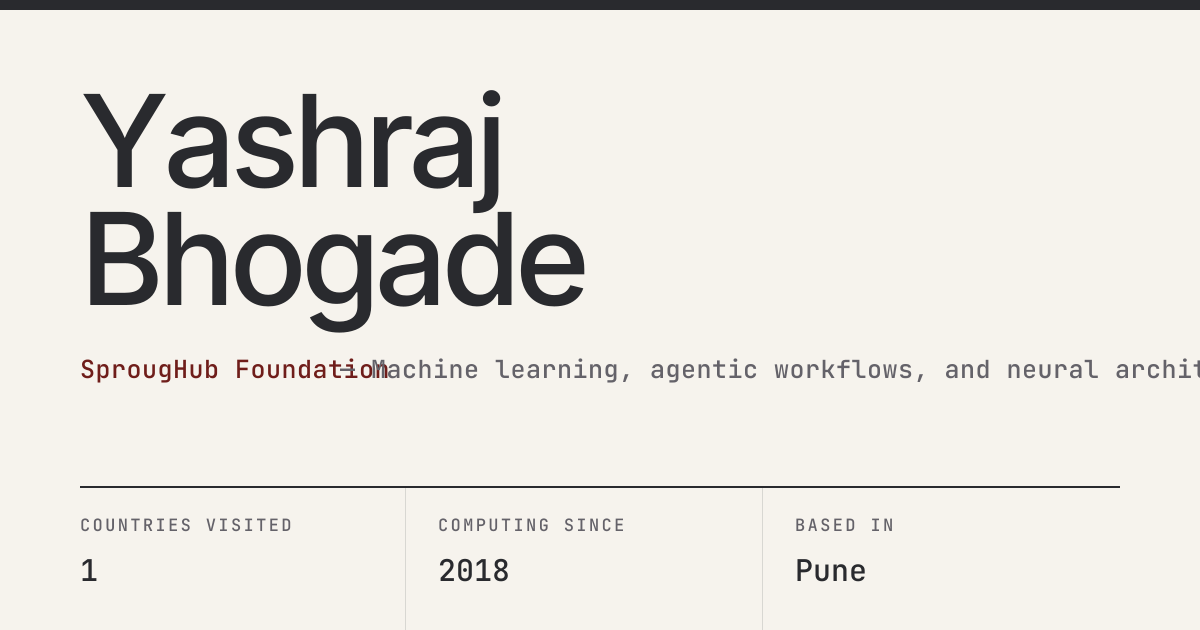
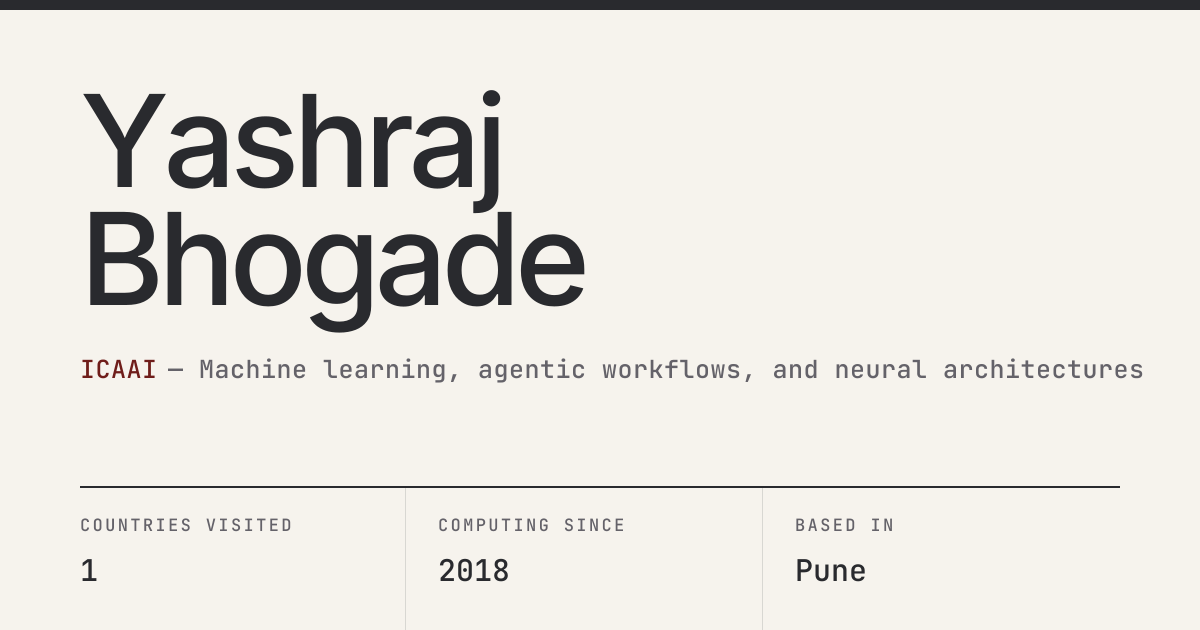
feat: build production-ready authenticated admin dashboard and asset tools

Changed region(s): [[0.0617, 0.573, 1.0, 0.6032]]

diff --git a/src/lib/__tests__/adminApi.test.ts b/src/lib/__tests__/adminApi.test.ts
@@ -1,0 +1,194 @@
+import { afterEach, beforeEach, describe, expect, it, vi } from 'vitest';
+
+import {
+  checkServerHealth,
+  commitGitChanges,
+  fetchAllPortfolioData,
+  fetchGitStatus,
+  getStoredToken,
+  login,
+  logout,
+  removeStoredToken,
+  saveAbout,
+  saveProfile,
+  setStoredToken,
+  triggerRebuild,
+  verifyAuth,
+} from '../adminApi';
+
+describe('adminApi token management', () => {
+  beforeEach(() => {
+    localStorage.clear();
+  });
+
+  afterEach(() => {
+    localStorage.clear();
+  });
+
+  it('stores and retrieves session token', () => {
+    expect(getStoredToken()).toBeNull();
+    setStoredToken('test-secret-token');
+    expect(getStoredToken()).toBe('test-secret-token');
+    removeStoredToken();
+    expect(getStoredToken()).toBeNull();
+  });
+});
+
+describe('adminApi network operations', () => {
+  beforeEach(() => {
+    localStorage.clear();
+    vi.restoreAllMocks();
+  });
+
+  afterEach(() => {
+    vi.restoreAllMocks();
+  });
+
+  it('checks server health when online', async () => {
+    vi.spyOn(global, 'fetch').mockResolvedValueOnce({
+      ok: true,
+      json: async () => ({ ok: true, status: 'ok' }),
+    } as Response);
+
+    const isOnline = await checkServerHealth();
+    expect(isOnline).toBe(true);
+  });
+
+  it('handles server health check failure gracefully', async () => {
+    vi.spyOn(global, 'fetch').mockRejectedValueOnce(new Error('Network error'));
+
+    const isOnline = await checkServerHealth();
+    expect(isOnline).toBe(false);
+  });
+
+  it('performs login successfully and stores token', async () => {
+    vi.spyOn(global, 'fetch').mockResolvedValueOnce({
+      ok: true,
+      json: async () => ({ ok: true, token: 'session-jwt-123' }),
+    } as Response);
+
+    const res = await login('admin123');
+    expect(res.ok).toBe(true);
+    expect(res.token).toBe('session-jwt-123');
+    expect(getStoredToken()).toBe('session-jwt-123');
+  });
+
+  it('returns error when login fails', async () => {
+    vi.spyOn(global, 'fetch').mockResolvedValueOnce({
+      ok: false,
+      status: 401,
+      json: async () => ({ ok: false, error: 'Invalid password' }),
+    } as Response);
+
+    const res = await login('wrong');
+    expect(res.ok).toBe(false);
+    expect(res.error).toBe('Invalid password');
+    expect(getStoredToken()).toBeNull();
+  });
+
+  it('verifies valid token', async () => {
+    setStoredToken('valid-token');
+    vi.spyOn(global, 'fetch').mockResolvedValueOnce({
+      ok: true,
+      json: async () => ({ ok: true, authenticated: true }),
+    } as Response);
+
+    const isValid = await verifyAuth();
+    expect(isValid).toBe(true);
+  });
+
+  it('clears token on logout', async () => {
+    setStoredToken('active-token');
+    vi.spyOn(global, 'fetch').mockResolvedValueOnce({
+      ok: true,
+      json: async () => ({ ok: true }),
+    } as Response);
+
+    await logout();
+    expect(getStoredToken()).toBeNull();
+  });
+
+  it('fetches all portfolio data when authenticated', async () => {
+    setStoredToken('valid-token');
+    const mockData = {
+      profile: { name: 'Yashraj Bhogade' },
+      about: { bio: 'Intro' },
+      resume: { work: [], degrees: [], skills: [], courses: [] },
+      projects: [],
+      writing: { articles: [], external: [] },
+      speaking: [],
+      contact: [],
+    };
+
+    vi.spyOn(global, 'fetch').mockResolvedValueOnce({
+      ok: true,
+      json: async () => ({ ok: true, data: mockData }),
+    } as Response);
+
+    const res = await fetchAllPortfolioData();
+    expect(res.ok).toBe(true);
+    expect(res.data?.profile?.name).toBe('Yashraj Bhogade');
+  });
+
+  it('saves profile and about section data', async () => {
+    setStoredToken('valid-token');
+    vi.spyOn(global, 'fetch').mockResolvedValueOnce({
+      ok: true,
+      json: async () => ({ ok: true }),
+    } as Response);
+
+    const profileRes = await saveProfile({
+      name: 'Yashraj Bhogade',
+    } as unknown as Parameters<typeof saveProfile>[0]);
+    expect(profileRes.ok).toBe(true);
+
+    vi.spyOn(global, 'fetch').mockResolvedValueOnce({
+      ok: true,
+      json: async () => ({ ok: true }),
+    } as Response);
+
+    const aboutRes = await saveAbout('# About Yashraj');
+    expect(aboutRes.ok).toBe(true);
+  });
+
+  it('triggers asset rebuild task', async () => {
+    setStoredToken('valid-token');
+    vi.spyOn(global, 'fetch').mockResolvedValueOnce({
+      ok: true,
+      json: async () => ({
+        ok: true,
+        action: 'og',
+        exitCode: 0,
+        stdout: 'Generated cards',
+      }),
+    } as Response);
+
+    const res = await triggerRebuild('og');
+    expect(res.ok).toBe(true);
+    expect(res.stdout).toBe('Generated cards');
+  });
+
+  it('inspects git status and makes commit', async () => {
+    setStoredToken('valid-token');
+    vi.spyOn(global, 'fetch').mockResolvedValueOnce({
+      ok: true,
+      json: async () => ({
+        ok: true,
+        branch: 'main',
+        changedFiles: ['src/data/profile.json'],
+      }),
+    } as Response);
+
+    const statusRes = await fetchGitStatus();
+    expect(statusRes.ok).toBe(true);
+    expect(statusRes.changedFiles).toContain('src/data/profile.json');
+
+    vi.spyOn(global, 'fetch').mockResolvedValueOnce({
+      ok: true,
+      json: async () => ({ ok: true, message: 'Committed successfully' }),
+    } as Response);
+
+    const commitRes = await commitGitChanges('feat: update profile data');
+    expect(commitRes.ok).toBe(true);
+  });
+});

diff --git a/src/components/Admin/AdminLogin.tsx b/src/components/Admin/AdminLogin.tsx
@@ -29,7 +29,7 @@ export default function AdminLogin({ standalone = false }: AdminLoginProps) {
   };
 
   return (
-    <div className="admin-login-wrapper">
+    <div className="admin-login-wrapper" id="main-content">
       <div className="admin-login-card">
         <div className="admin-login-header">
           <div className="admin-login-monogram">YB</div>
@@ -44,11 +44,14 @@ export default function AdminLogin({ standalone = false }: AdminLoginProps) {
             display: 'flex',
             alignItems: 'center',
             justifyContent: 'center',
+            flexWrap: 'wrap',
             gap: '0.5rem',
             marginBottom: '1.25rem',
             fontSize: '0.75rem',
             fontFamily: 'var(--font-mono)',
             color: serverOnline ? '#4ade80' : 'var(--color-signal)',
+            textAlign: 'center',
+            overflowWrap: 'anywhere',
           }}
         >
           <span
@@ -58,11 +61,14 @@ export default function AdminLogin({ standalone = false }: AdminLoginProps) {
               borderRadius: '50%',
               backgroundColor: serverOnline ? '#2e7d32' : 'var(--color-signal)',
               display: 'inline-block',
+              flexShrink: 0,
             }}
           />
-          {serverOnline
-            ? 'Local Companion Server: Online (Port 3001)'
-            : 'Companion Server: Checking / Offline (Run: npm run admin)'}
+          <span style={{ overflowWrap: 'anywhere', wordBreak: 'break-word' }}>
+            {serverOnline
+              ? 'Local Companion Server: Online (Port 3001)'
+              : 'Companion Server: Checking / Offline (Run: npm run admin)'}
+          </span>
         </div>
 
         {error && <div className="admin-login-error">{error}</div>}
@@ -114,11 +120,18 @@ export default function AdminLogin({ standalone = false }: AdminLoginProps) {
             textAlign: 'center',
             fontSize: '0.75rem',
             color: 'var(--color-fg-light)',
+            overflowWrap: 'anywhere',
           }}
         >
-          <p style={{ margin: 0 }}>
-            Configured via <code>ADMIN_PASSWORD</code> in{' '}
-            <code>.env.local</code>
+          <p style={{ margin: 0, overflowWrap: 'anywhere' }}>
+            Configured via{' '}
+            <code style={{ overflowWrap: 'anywhere', wordBreak: 'break-all' }}>
+              ADMIN_PASSWORD
+            </code>{' '}
+            in{' '}
+            <code style={{ overflowWrap: 'anywhere', wordBreak: 'break-all' }}>
+              .env.local
+            </code>
           </p>
         </div>
       </div>

diff --git a/app/styles/pages/admin.css b/app/styles/pages/admin.css
@@ -360,6 +360,8 @@
 .admin-input,
 .admin-select,
 .admin-textarea {
+  width: 100%;
+  box-sizing: border-box;
   padding: 0.55rem 0.75rem;
   border-radius: 5px;
   border: 1px solid var(--color-control-border);
@@ -766,7 +768,10 @@
   align-items: center;
   justify-content: center;
   background-color: var(--color-bg-alt);
-  padding: 1.5rem;
+  padding: 1.5rem 1rem;
+  box-sizing: border-box;
+  width: 100%;
+  overflow-wrap: anywhere;
 }
 
 .admin-login-card {
@@ -775,8 +780,16 @@
   background: var(--color-surface-subtle);
   border: 1px solid var(--color-border);
   border-radius: 12px;
-  padding: 2.25rem 2rem;
+  padding: 2rem 1.25rem;
   box-shadow: 0 8px 30px rgba(0, 0, 0, 0.4);
+  box-sizing: border-box;
+  overflow-wrap: anywhere;
+}
+
+.admin-login-card code,
+.admin-card code {
+  word-break: break-all;
+  overflow-wrap: anywhere;
 }
 
 .admin-login-header {

diff --git a/src/components/Admin/AdminDashboard.tsx b/src/components/Admin/AdminDashboard.tsx
@@ -1,7 +1,5 @@
 'use client';
 
-import React from 'react';
-
 import AboutEditor from './AboutEditor';
 import { useAdmin } from './AdminContext';
 import AdminHeader from './AdminHeader';
@@ -24,6 +22,7 @@ export default function AdminDashboard() {
   if (isLoading) {
     return (
       <div
+        id="main-content"
         style={{
           minHeight: '100vh',
           display: 'flex',
@@ -54,7 +53,7 @@ export default function AdminDashboard() {
       <AdminSidebar />
       <div className="admin-main">
         <AdminHeader />
-        <main className="admin-content">
+        <main className="admin-content" id="main-content">
           {activeSection === 'profile' && <ProfileEditor />}
           {activeSection === 'about' && <AboutEditor />}
           {activeSection === 'resume' && <ResumeEditor />}

diff --git a/src/data/resume/work.ts b/src/data/resume/work.ts
@@ -20,7 +20,7 @@ const work: Position[] = [
     name: 'SprougHub Foundation',
     position:
       'Software Development Engineer & Machine Learning Engineer Intern',
-    url: 'https://github.com/itsthemaverick',
+    url: 'https://sproughub.info',
     startDate: '2026-09-01',
     summary:
       'Worked on web platforms and Project JHEP, an AI-powered Learning Management System; contributed to frontend, backend, and AI/ML development. Served as Project Lead, coordinating a 10-member team.',

diff --git a/src/components/Admin/WritingEditor.tsx b/src/components/Admin/WritingEditor.tsx
@@ -1,7 +1,7 @@
 'use client';
 
 import Markdown from 'markdown-to-jsx';
-import React, { useState } from 'react';
+import { useState } from 'react';
 
 import { deletePost, saveExternalWriting, savePost } from '@/lib/adminApi';
 import type { PostItem, WritingEntry } from '@/types/admin';

diff --git a/src/components/Admin/AdminContext.tsx b/src/components/Admin/AdminContext.tsx
@@ -9,11 +9,11 @@ import React, {
 } from 'react';
 
 import {
+  login as apiLogin,
+  logout as apiLogout,
   checkServerHealth,
   fetchAllPortfolioData,
   getStoredToken,
-  login as apiLogin,
-  logout as apiLogout,
   verifyAuth,
 } from '@/lib/adminApi';
 import type {

diff --git a/src/components/Admin/ResumeEditor.tsx b/src/components/Admin/ResumeEditor.tsx
@@ -1,6 +1,6 @@
 'use client';
 
-import React, { useState } from 'react';
+import { useState } from 'react';
 
 import { saveCourses, saveDegrees, saveSkills, saveWork } from '@/lib/adminApi';
 import type { Course, Degree, Position, Skill } from '@/types/admin';

diff --git a/src/components/Admin/AboutEditor.tsx b/src/components/Admin/AboutEditor.tsx
@@ -1,7 +1,7 @@
 'use client';
 
 import Markdown from 'markdown-to-jsx';
-import React, { useEffect, useState } from 'react';
+import { useEffect, useState } from 'react';
 
 import { saveAbout } from '@/lib/adminApi';
 import { useAdmin } from './AdminContext';

diff --git a/src/components/Admin/SpeakingEditor.tsx b/src/components/Admin/SpeakingEditor.tsx
@@ -1,6 +1,6 @@
 'use client';
 
-import React, { useState } from 'react';
+import { useState } from 'react';
 
 import { saveSpeaking } from '@/lib/adminApi';
 import type { Appearance, AppearanceFormat } from '@/types/admin';

diff --git a/src/components/Admin/ContactEditor.tsx b/src/components/Admin/ContactEditor.tsx
@@ -1,6 +1,6 @@
 'use client';
 
-import React, { useState } from 'react';
+import { useState } from 'react';
 
 import { saveContact } from '@/lib/adminApi';
 import type { ContactId, ContactItem } from '@/types/admin';

diff --git a/src/components/Admin/AdminHeader.tsx b/src/components/Admin/AdminHeader.tsx
@@ -1,8 +1,5 @@
 'use client';
 
-import Link from 'next/link';
-import React from 'react';
-
 import { useAdmin } from './AdminContext';
 
 const SECTION_TITLES: Record<string, { title: string; route: string }> = {
